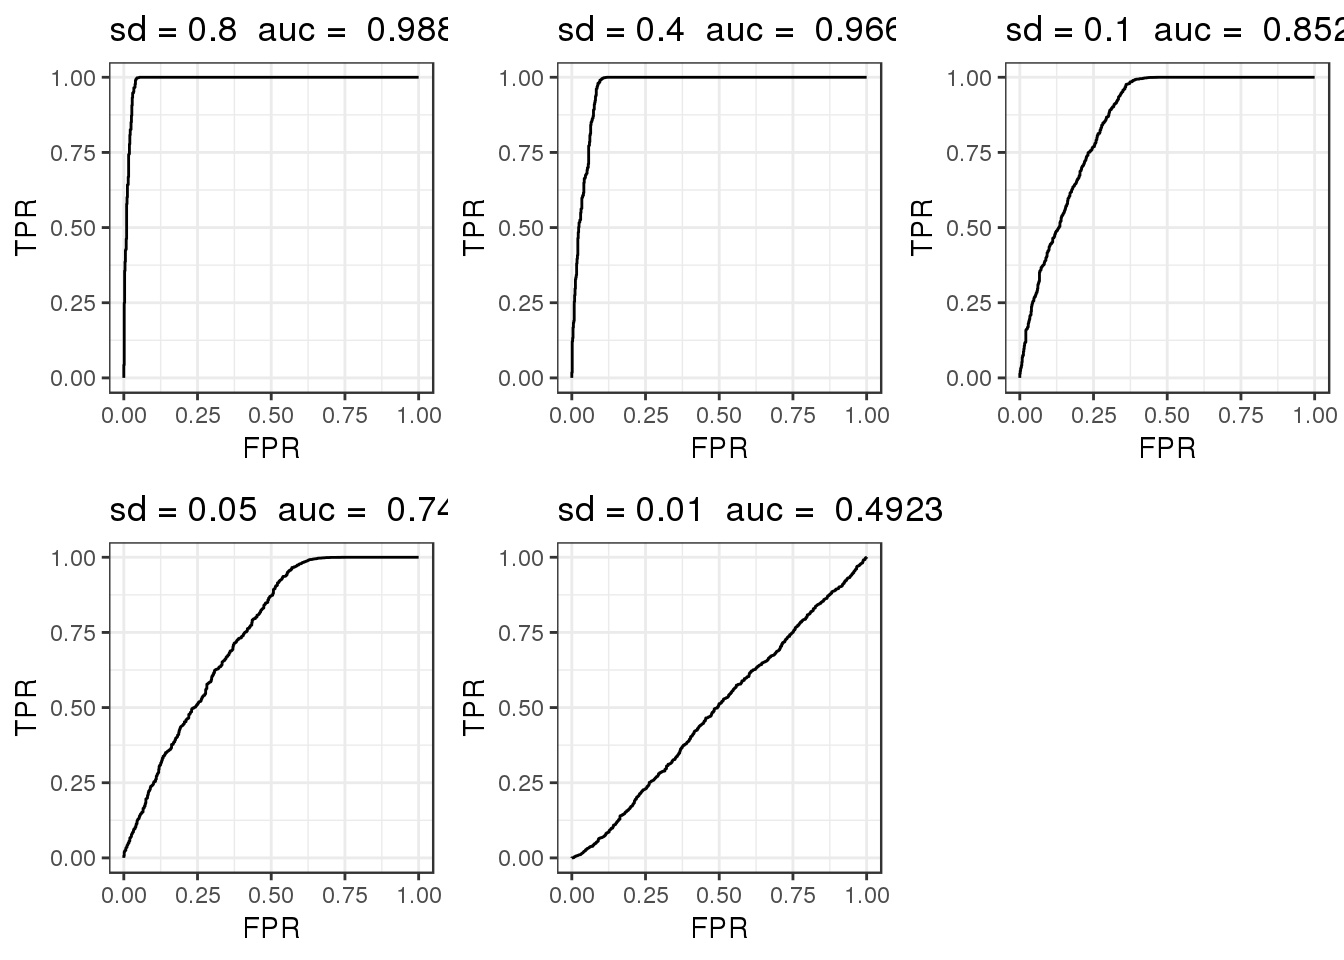
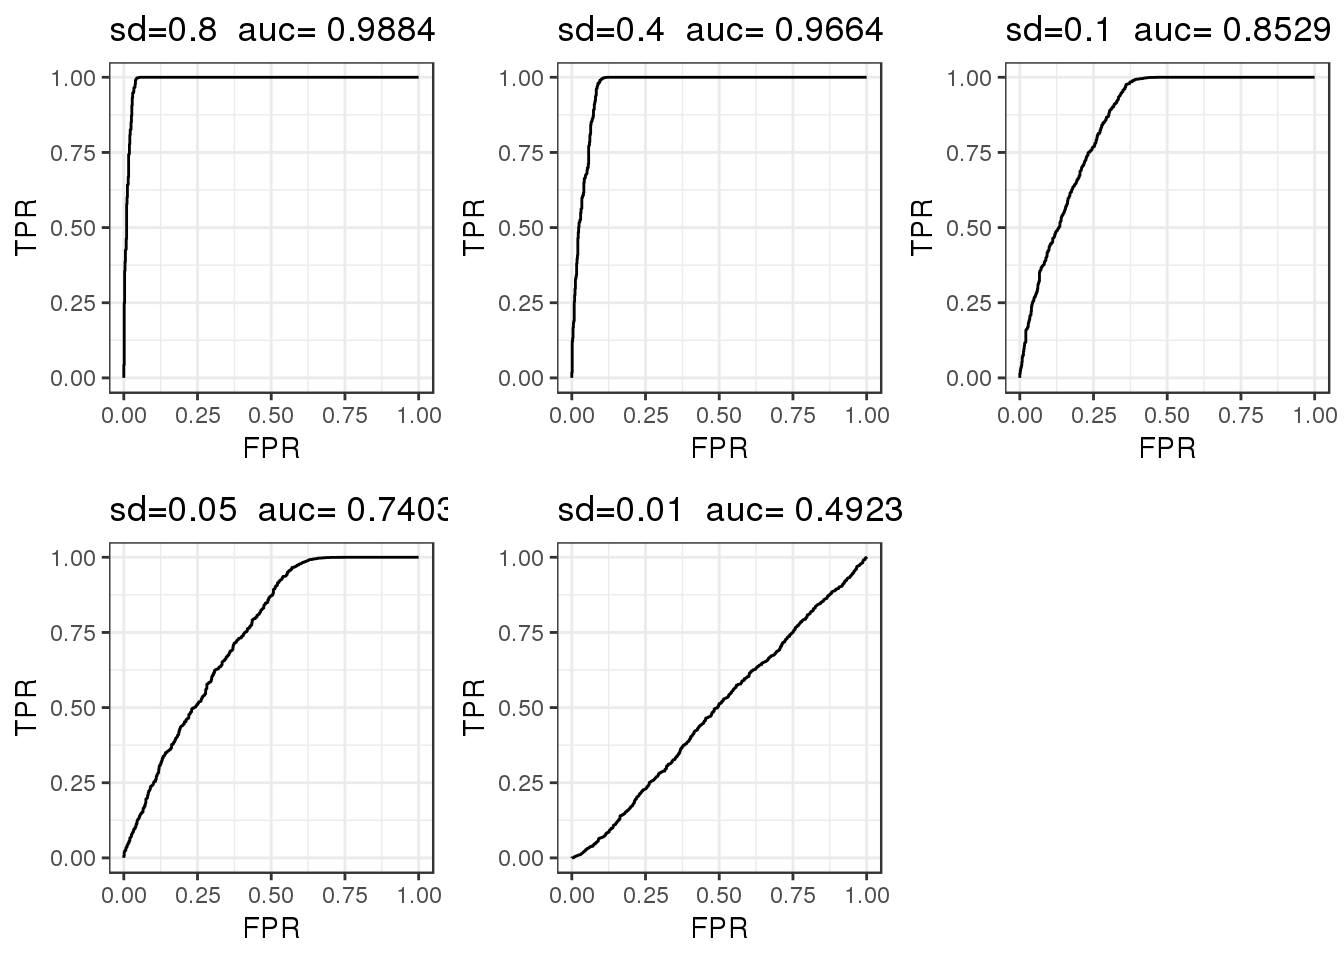
Build site.

diff --git a/docs/sva_multitreat.html b/docs/sva_multitreat.html
@@ -435,10 +435,10 @@ This reproducible <a href="http://rmarkdown.rstudio.com">R Markdown</a> analysis
 <div class="panel panel-default">
 <div class="panel-heading">
 <p class="panel-title">
-<a data-toggle="collapse" data-parent="#workflowr-checks" href="#strongRepositoryversionstrongahrefhttpsgithubcomDongyueXiedeartree16120a95f6b46bd58e74df30df605dc5c14f66f2targetblank16120a9a"> <span class="glyphicon glyphicon-ok text-success" aria-hidden="true"></span> <strong>Repository version:</strong> <a href="https://github.com/DongyueXie/dear/tree/16120a95f6b46bd58e74df30df605dc5c14f66f2" target="_blank">16120a9</a> </a>
+<a data-toggle="collapse" data-parent="#workflowr-checks" href="#strongRepositoryversionstrongahrefhttpsgithubcomDongyueXiedeartreeae9196bc0b842595d7fbd87ae3354522a180ab27targetblankae9196ba"> <span class="glyphicon glyphicon-ok text-success" aria-hidden="true"></span> <strong>Repository version:</strong> <a href="https://github.com/DongyueXie/dear/tree/ae9196bc0b842595d7fbd87ae3354522a180ab27" target="_blank">ae9196b</a> </a>
 </p>
 </div>
[2 lines of base64/hex data omitted]
 <div class="panel-body">
 <p>
 Great! You are using Git for version control. Tracking code development and connecting the code version to the results is critical for reproducibility. The version displayed above was the version of the Git repository at the time these results were generated. <br><br> Note that you need to be careful to ensure that all relevant files for the analysis have been committed to Git prior to generating the results (you can use <code>wflow_publish</code> or <code>wflow_git_commit</code>). workflowr only checks the R Markdown file, but you know if there are other scripts or data files that it depends on. Below is the status of the Git repository when the results were generated:
@@ -508,6 +508,40 @@ Message
 </tr>
 </thead>
 <tbody>
+<tr>
+<td>
+Rmd
+</td>
+<td>
+<a href="https://github.com/DongyueXie/dear/blob/ae9196bc0b842595d7fbd87ae3354522a180ab27/analysis/sva_multitreat.Rmd" target="_blank">ae9196b</a>
+</td>
+<td>
+DongyueXie
+</td>
+<td>
+2020-05-05
+</td>
+<td>
+wflow_publish(“analysis/sva_multitreat.Rmd”)
+</td>
+</tr>
+<tr>
+<td>
+html
+</td>
+<td>
+<a href="https://rawcdn.githack.com/DongyueXie/dear/62a266c93d7466ef607873f658bff33801893ae8/docs/sva_multitreat.html" target="_blank">62a266c</a>
+</td>
+<td>
+DongyueXie
+</td>
+<td>
+2020-05-05
+</td>
+<td>
+Build site.
+</td>
+</tr>
 <tr>
 <td>
 Rmd
@@ -621,7 +655,7 @@ for(i in 1:length(out_lm)){
   roc_out = pROC::roc(response = which_null, predictor = top)
   sout = data.frame(TPR = roc_out$sensitivities, FPR = 1 - roc_out$specificities)
   p2 &lt;- ggplot(data = sout, mapping = aes(x = FPR, y = TPR)) +
-  geom_path() + theme_bw() + ggtitle(paste(&#39;sd = 0.8 &#39;, &#39;auc = &#39;,round(roc_out$auc,4)))
+  geom_path() + theme_bw() + ggtitle(paste(&#39;sd=0.8 &#39;, &#39;auc=&#39;,round(roc_out$auc,4)))
   print(roc_out$auc)
   print(paste(&#39;fdp:&#39;,1-mean(get_significant_results(out_lm[[i]])%in%out_lm[[i]]$data$non_null_gene_idx)))
 }</code></pre>
@@ -638,7 +672,7 @@ for(i in 1:length(out_lm)){
   roc_out = pROC::roc(response = which_null, predictor = top)
   sout = data.frame(TPR = roc_out$sensitivities, FPR = 1 - roc_out$specificities)
   p3 &lt;- ggplot(data = sout, mapping = aes(x = FPR, y = TPR)) +
-  geom_path() + theme_bw() + ggtitle(paste(&#39;sd = 0.4 &#39;, &#39;auc = &#39;,round(roc_out$auc,4)))
+  geom_path() + theme_bw() + ggtitle(paste(&#39;sd=0.4 &#39;, &#39;auc=&#39;,round(roc_out$auc,4)))
   print(roc_out$auc)
   print(paste(&#39;fdp:&#39;,1-mean(get_significant_results(out_lm[[i]])%in%out_lm[[i]]$data$non_null_gene_idx)))
 }</code></pre>
@@ -655,7 +689,7 @@ for(i in 1:length(out_lm)){
   roc_out = pROC::roc(response = which_null, predictor = top)
   sout = data.frame(TPR = roc_out$sensitivities, FPR = 1 - roc_out$specificities)
   p4 &lt;-  ggplot(data = sout, mapping = aes(x = FPR, y = TPR)) +
-  geom_path() + theme_bw() + ggtitle(paste(&#39;sd = 0.1 &#39;, &#39;auc = &#39;,round(roc_out$auc,4)))
+  geom_path() + theme_bw() + ggtitle(paste(&#39;sd=0.1 &#39;, &#39;auc=&#39;,round(roc_out$auc,4)))
   print(roc_out$auc)
   print(paste(&#39;fdp:&#39;,1-mean(get_significant_results(out_lm[[i]])%in%out_lm[[i]]$data$non_null_gene_idx)))
 }</code></pre>
@@ -672,7 +706,7 @@ for(i in 1:length(out_lm)){
   roc_out = pROC::roc(response = which_null, predictor = top)
   sout = data.frame(TPR = roc_out$sensitivities, FPR = 1 - roc_out$specificities)
   p5 &lt;- ggplot(data = sout, mapping = aes(x = FPR, y = TPR)) +
-  geom_path() + theme_bw() + ggtitle(paste(&#39;sd = 0.05 &#39;, &#39;auc = &#39;,round(roc_out$auc,4)))
+  geom_path() + theme_bw() + ggtitle(paste(&#39;sd=0.05 &#39;, &#39;auc=&#39;,round(roc_out$auc,4)))
   print(roc_out$auc)
   print(paste(&#39;fdp:&#39;,1-mean(get_significant_results(out_lm[[i]])%in%out_lm[[i]]$data$non_null_gene_idx)))
 }</code></pre>
@@ -691,7 +725,7 @@ for(i in 1:length(out_lm)){
   roc_out = pROC::roc(response = which_null, predictor = top)
   sout = data.frame(TPR = roc_out$sensitivities, FPR = 1 - roc_out$specificities)
   p6 &lt;- ggplot(data = sout, mapping = aes(x = FPR, y = TPR)) +
-  geom_path() + theme_bw() + ggtitle(paste(&#39;sd = 0.01 &#39;, &#39;auc = &#39;,round(roc_out$auc,4)))
+  geom_path() + theme_bw() + ggtitle(paste(&#39;sd=0.01 &#39;, &#39;auc=&#39;,round(roc_out$auc,4)))
   print(roc_out$auc)
   print(paste(&#39;fdp:&#39;,1-mean(get_significant_results(out_lm[[i]])%in%out_lm[[i]]$data$non_null_gene_idx)))
 }</code></pre>
@@ -709,6 +743,43 @@ Area under the curve: 0.4923
 <p>sd stands for the standard deviation of normal dsitributon where we generate effect of treatment from.</p>
 <pre class="r"><code>grid.arrange(p2,p3,p4,p5,p6,ncol=3)</code></pre>
 <p><img src="figure/sva_multitreat.Rmd/unnamed-chunk-9-1.png" width="672" style="display: block; margin: auto;" /></p>
+<p>
+<button type="button" class="btn btn-default btn-xs btn-workflowr btn-workflowr-fig" data-toggle="collapse" data-target="#fig-unnamed-chunk-9-1">
+Past versions of unnamed-chunk-9-1.png
+</button>
+</p>
+<div id="fig-unnamed-chunk-9-1" class="collapse">
+<div class="table-responsive">
+<table class="table table-condensed table-hover">
+<thead>
+<tr>
+<th>
+Version
+</th>
+<th>
+Author
+</th>
+<th>
+Date
+</th>
+</tr>
+</thead>
+<tbody>
+<tr>
+<td>
+<a href="https://github.com/DongyueXie/dear/blob/62a266c93d7466ef607873f658bff33801893ae8/docs/figure/sva_multitreat.Rmd/unnamed-chunk-9-1.png" target="_blank">62a266c</a>
+</td>
+<td>
+DongyueXie
+</td>
+<td>
+2020-05-05
+</td>
+</tr>
+</tbody>
+</table>
+</div>
+</div>
 <br>
 <p>
 <button type="button" class="btn btn-default btn-workflowr btn-workflowr-sessioninfo" data-toggle="collapse" data-target="#workflowr-sessioninfo" style="display: block;">
